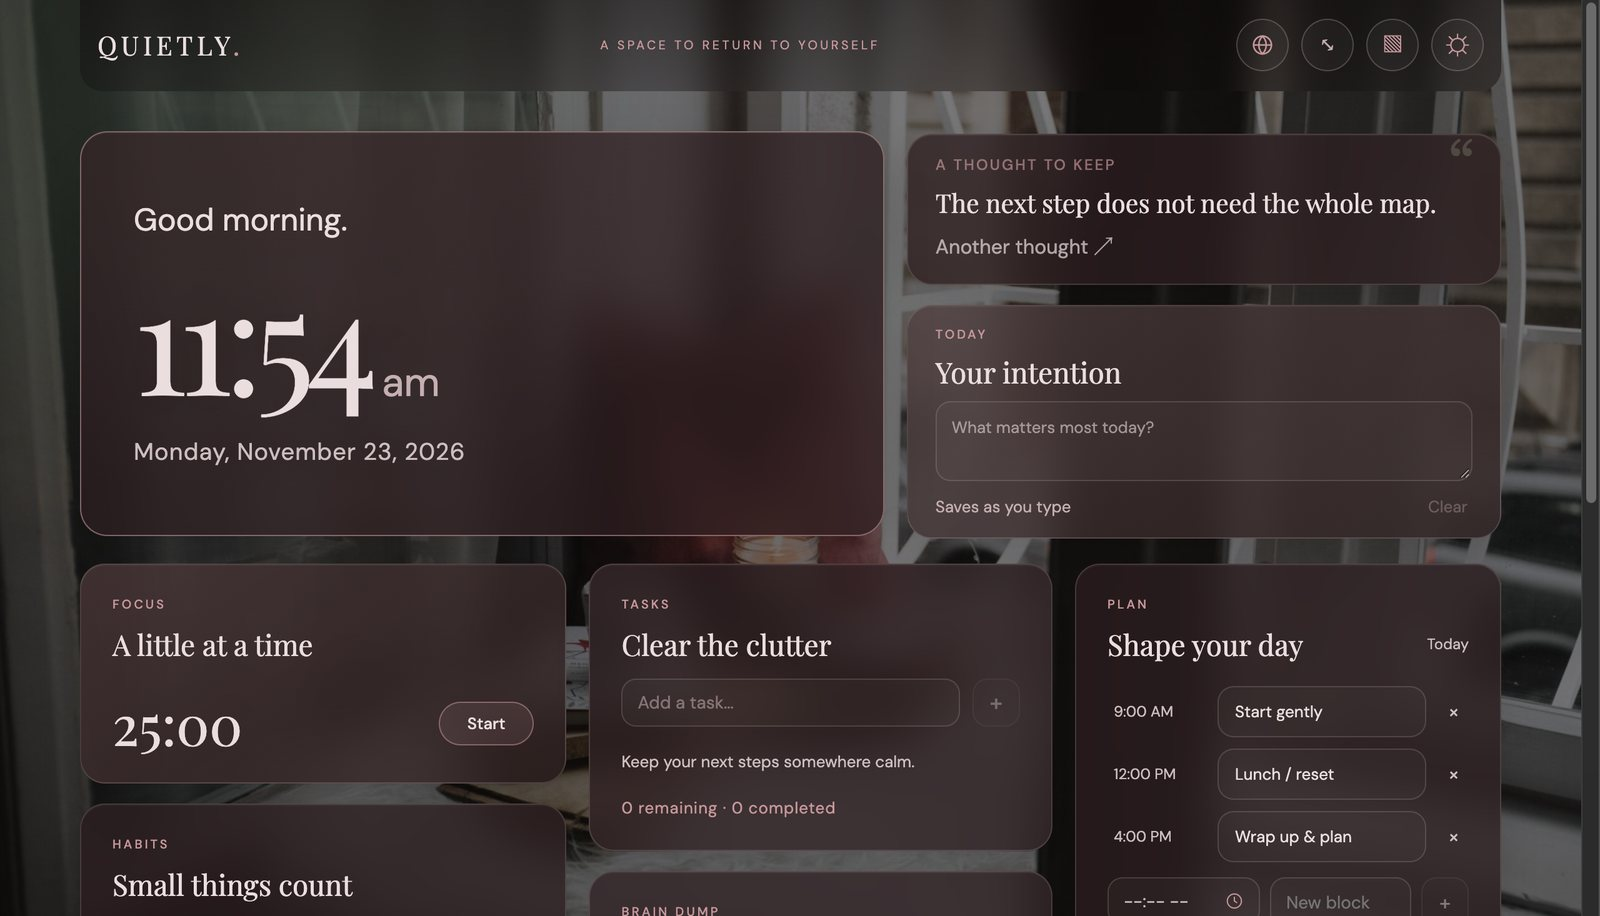
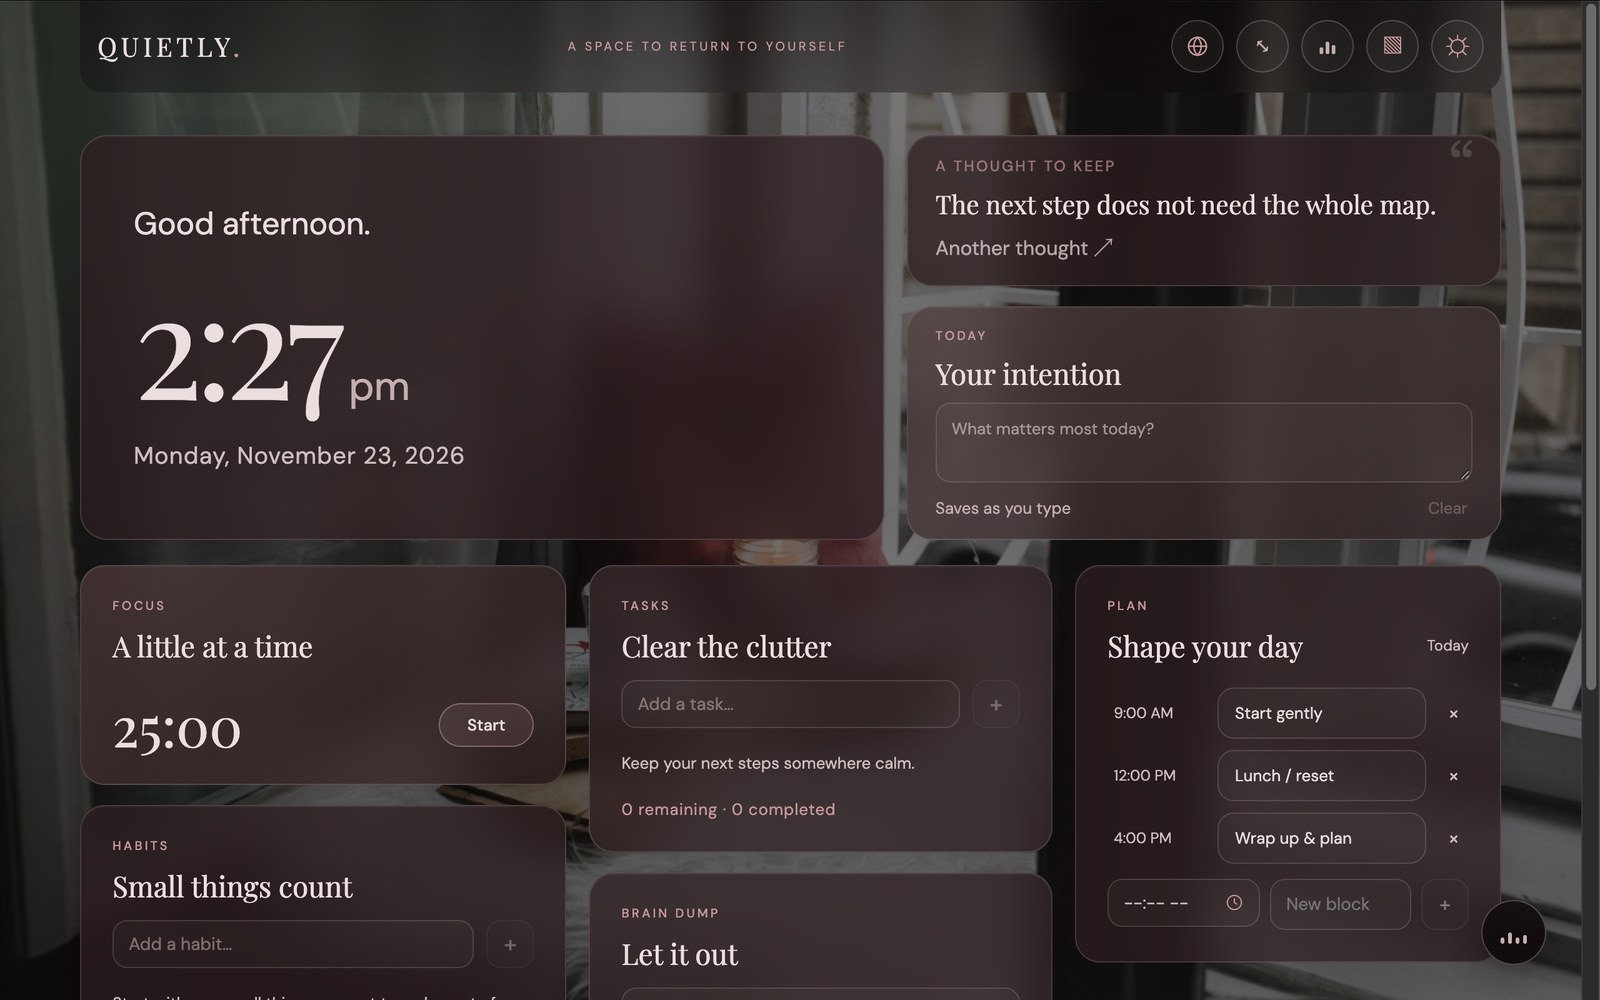
Update README features and screenshots

diff --git a/README.md b/README.md
@@ -25,6 +25,11 @@ Made by Jigyasa Ahuja.
 - Sound mixer: synthesised rain, brown noise and forest, plus nine real recordings,
   and your own audio files (kept in your browser only). A button saves all the recordings
   on your device so they keep playing without internet
+- A small round sound button in the corner (animated bars while sound plays) with play/pause
+  and an overall volume; open the full mixer when you want more
+- A calm Stats window: focus minutes for the last seven days, your current streak and a
+  total, kept only on your device and easy to clear
+- A short "How Quietly works" note explaining that nothing leaves your device
 - 9 colour themes and 19 background photos; the "Auto" theme adapts the colours to the photo
 - Seven languages: English, Español, Français, Deutsch, Português, Italiano, हिन्दी
 - Installable as an app, and works offline
